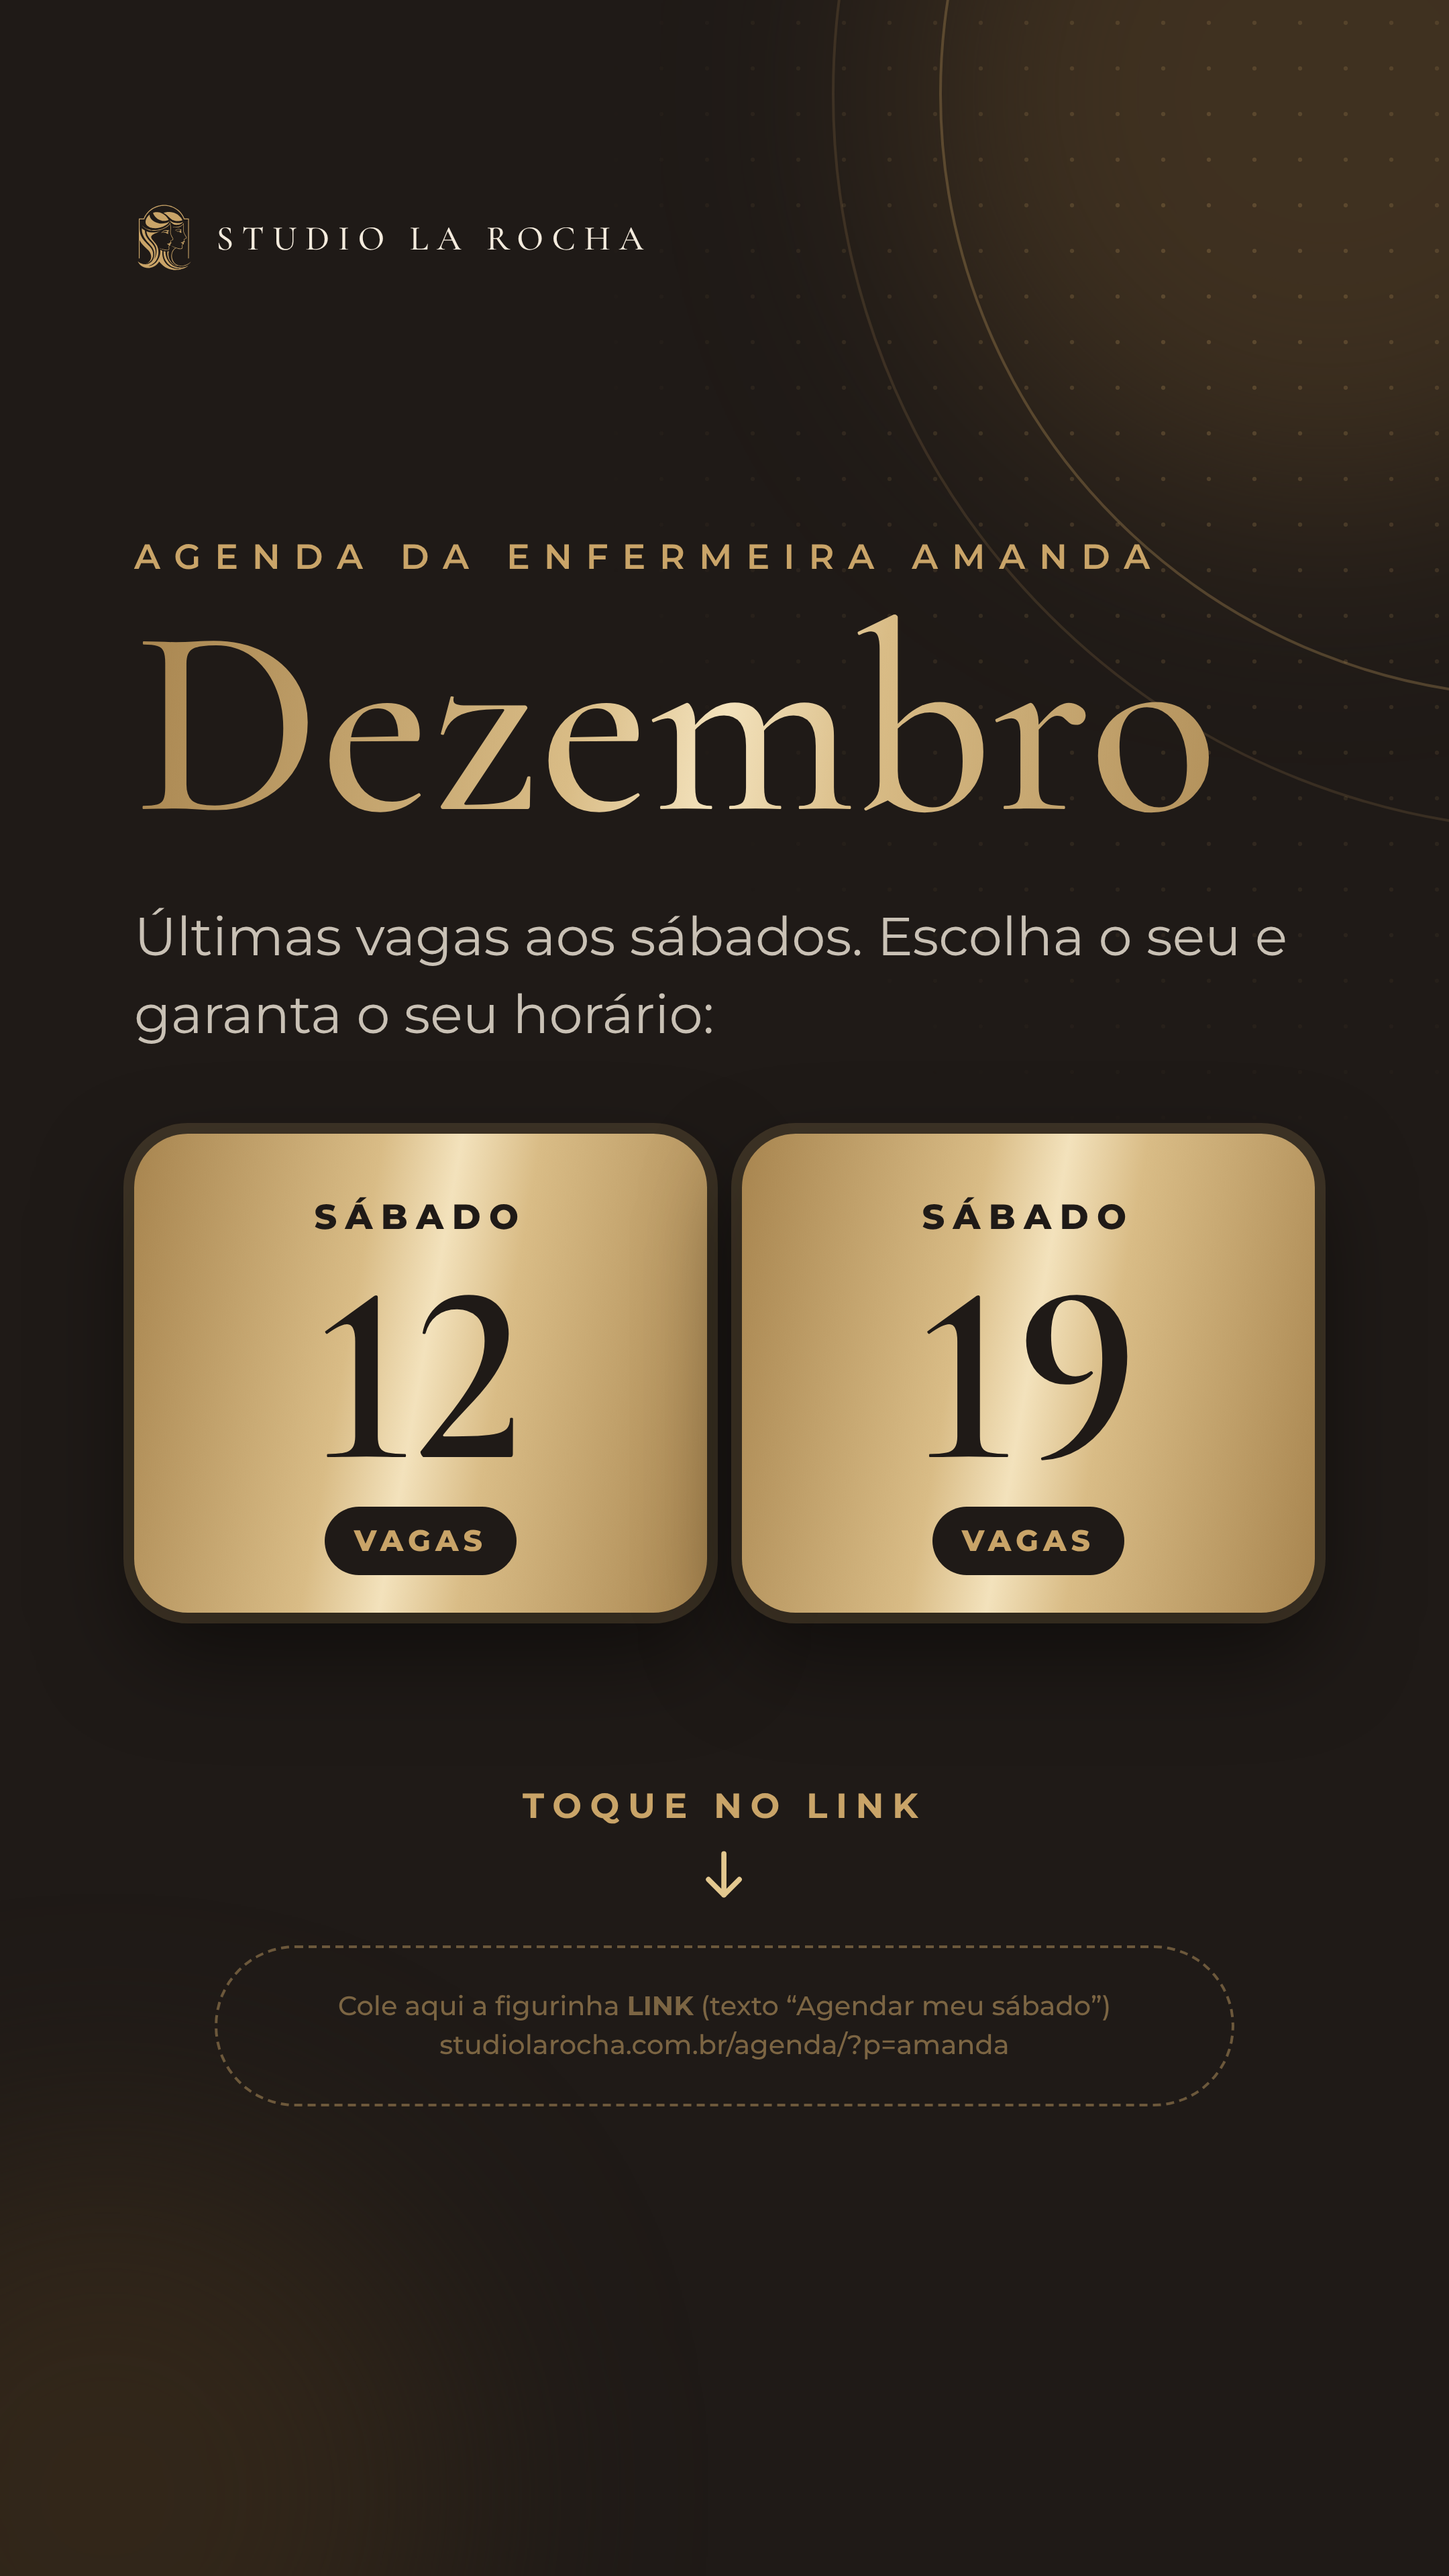
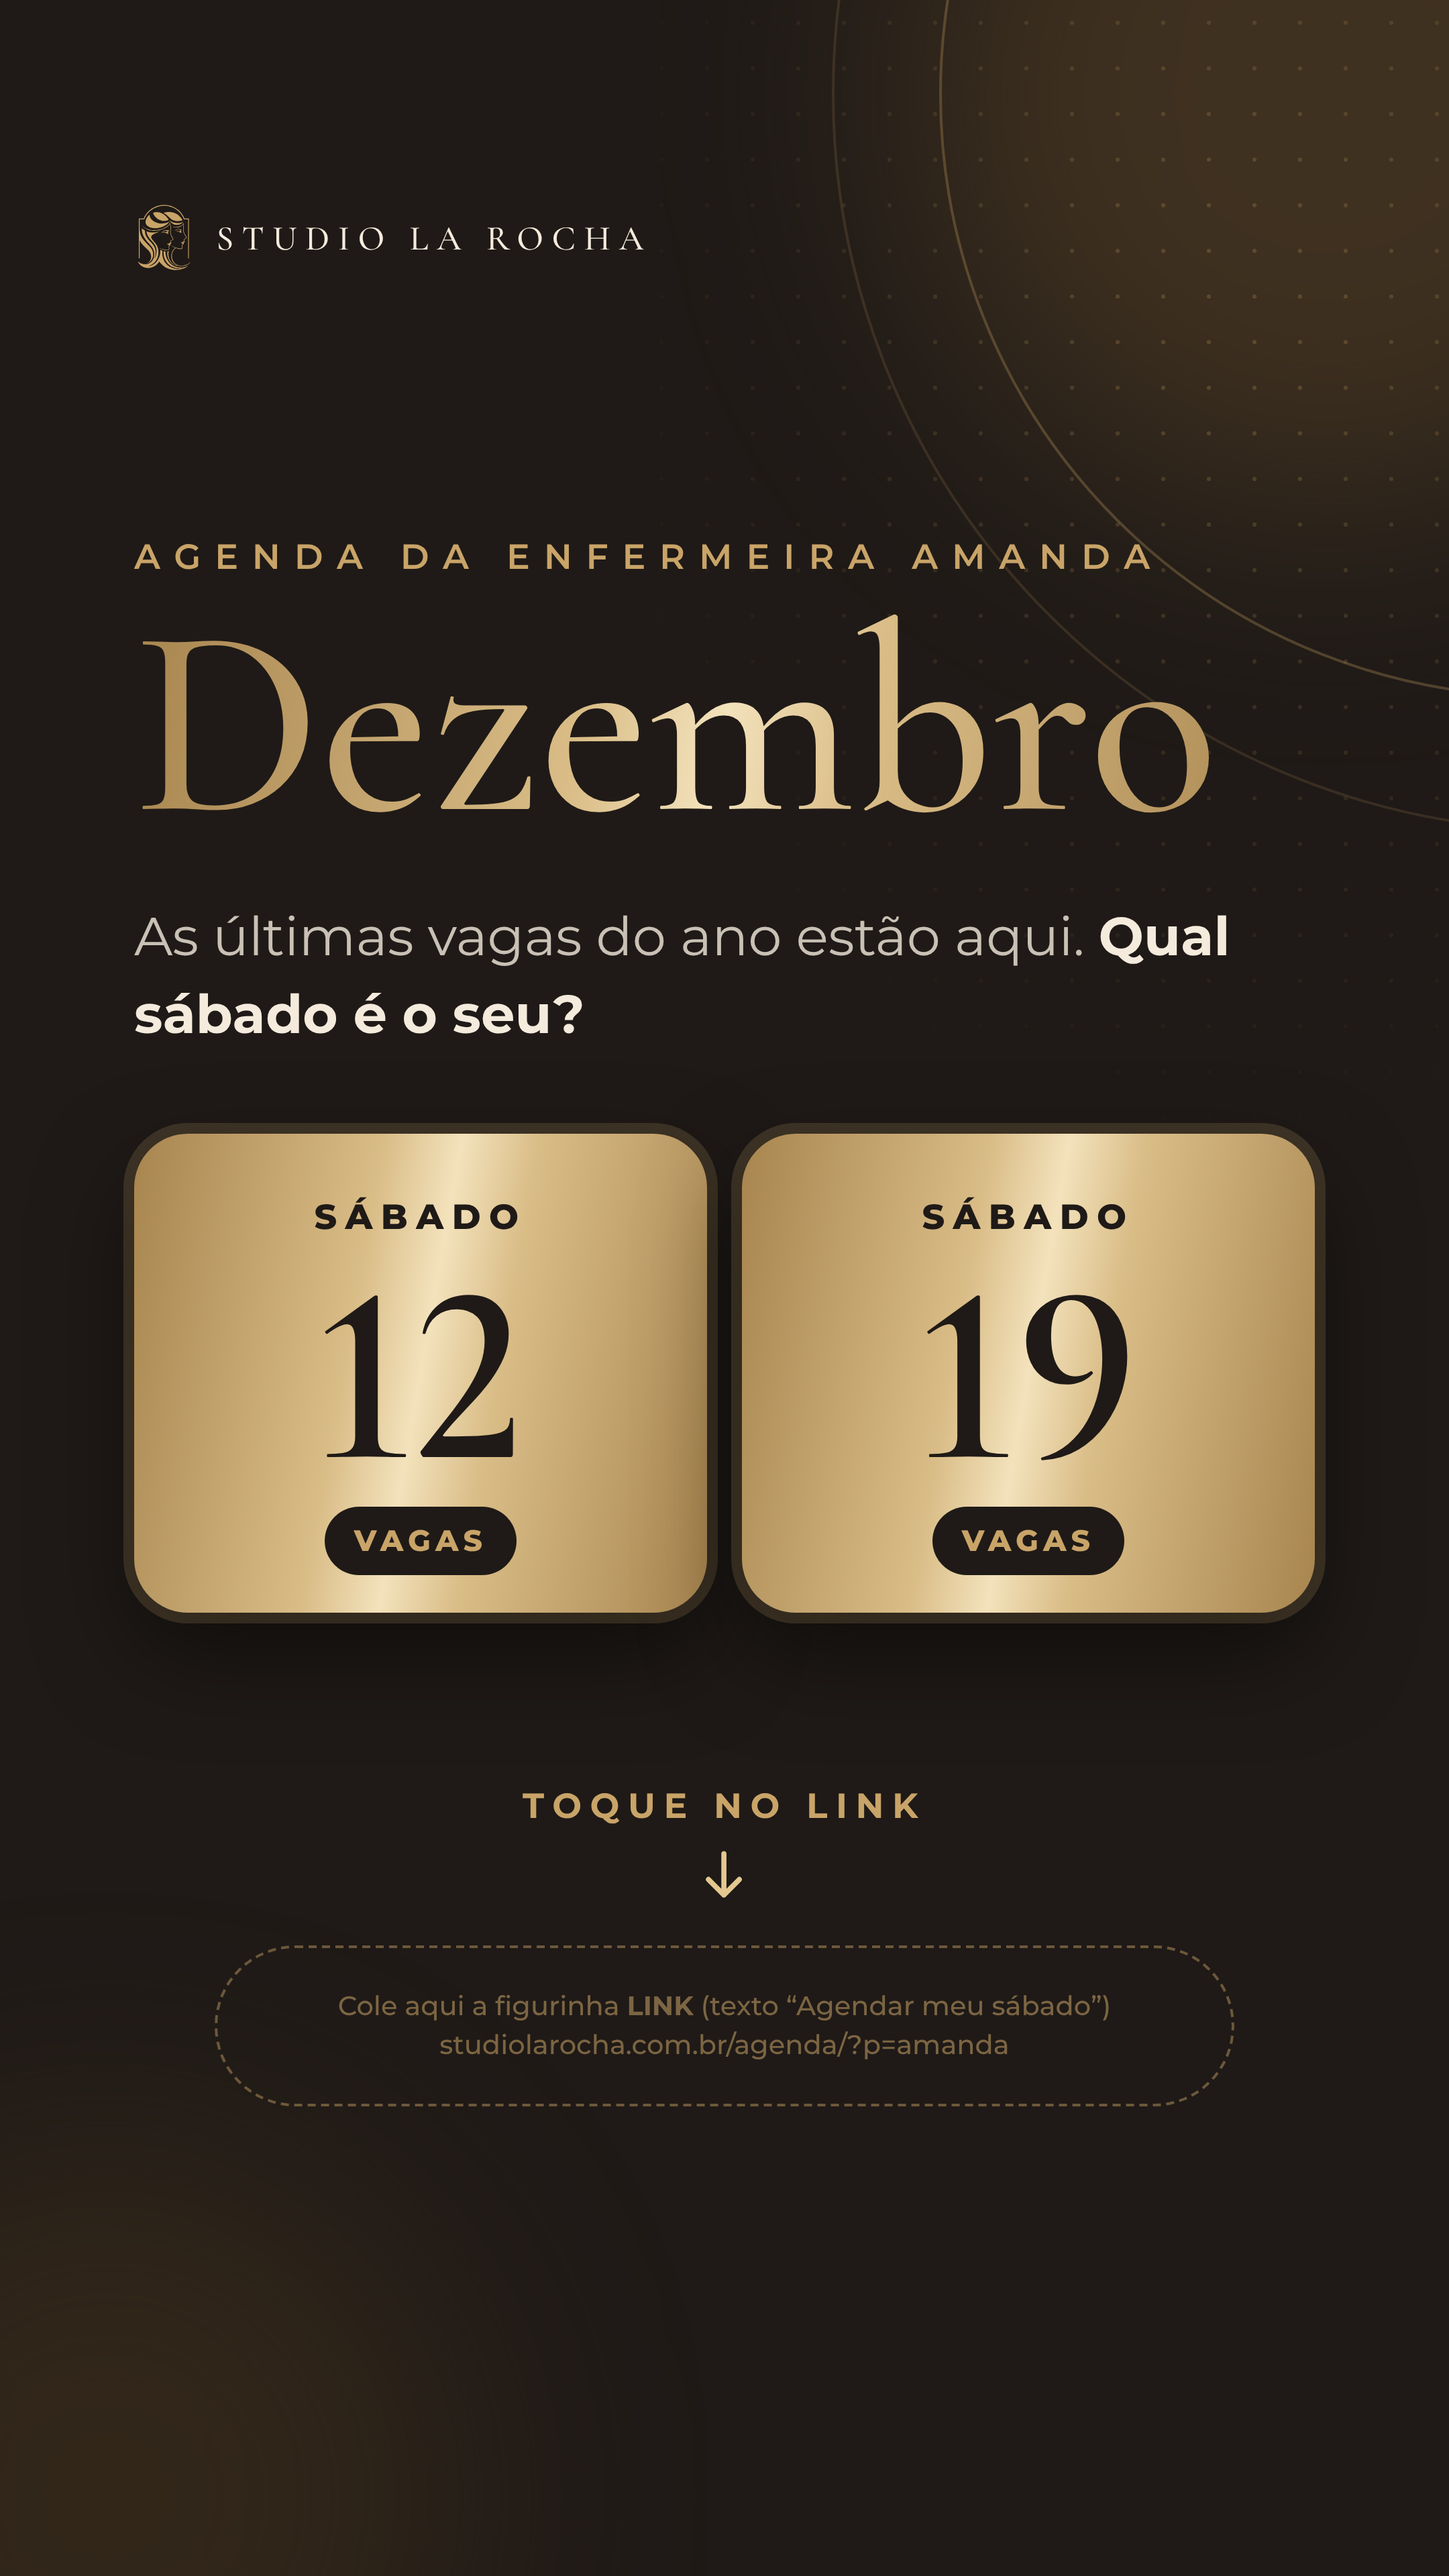
Story 1: texto sem redundância ('Qual sábado é o seu?') e regra de qualidade de texto no CLAUDE.md
Claude-Session: https://claude.ai/code/session_01XzVqx6kG6obyTxXfpJ6DA2

Changed region(s): [[0.0931, 0.3438, 0.8685, 0.4062]]

diff --git a/instagram/fonte/stories-carrossel.html b/instagram/fonte/stories-carrossel.html
@@ -227,7 +227,7 @@
 <section class="post chamada st escuro centro" id="s1-3"><i class="luz a"></i><i class="luz b"></i><div class="pontos"></div><div class="arco um"></div><div class="arco dois"></div><div class="topo"><div class="mini"><img src="simbolo-claro-transp.svg" alt="">STUDIO LA ROCHA</div></div>
 <div class="rotulo">Agenda da enfermeira Amanda</div>
 <div class="mes">Dezembro</div>
-<p class="lead">Últimas vagas aos sábados. Escolha o seu e garanta o seu horário:</p>
+<p class="lead">As últimas vagas do ano estão aqui. <b>Qual sábado é o seu?</b></p>
 <div class="sabs"><div class="sab"><small>Sábado</small><strong>12</strong><span>Vagas</span></div><div class="sab"><small>Sábado</small><strong>19</strong><span>Vagas</span></div></div>
 <div class="seta-baixo">Toque no link<svg viewBox="0 0 24 24" fill="none" stroke="#E3C88F" stroke-width="2" stroke-linecap="round" stroke-linejoin="round"><path d="M12 4v16M6 14l6 6 6-6"/></svg></div><div class="alvo-link"><span class="dica-fig" style="font-size:20px;line-height:1.45">Cole aqui a figurinha <em>LINK</em> (texto “Agendar meu sábado”)<br>studiolarocha.com.br/agenda/?p=amanda</span></div></section>
 <section class="post chamada st claro" id="s2-1"><i class="luz a"></i><i class="luz b"></i><div class="pontos"></div><div class="arco um"></div><div class="arco dois"></div><div class="topo"><div class="mini"><img src="simbolo-colorido.svg" alt="">STUDIO LA ROCHA</div></div>

diff --git a/CLAUDE.md b/CLAUDE.md
@@ -29,6 +29,15 @@ Este arquivo é a memória do projeto. Quem continuar o trabalho (Claude ou pess
 
 - **Textos a evitar:** nada que soe como emagrecer/corpo ("chegar mais leve", "secar", "perder peso"); o Kevin vetou "chegue nas festas mais leve". Preferir cuidado, momento seu, se cuidar.
 
+## 3b. Qualidade do texto (regra do Kevin, 10/11/2026)
+Todo texto (post, story, legenda, folheto, site) passa por esta revisão antes de entregar:
+1. **Faz sentido e é pertinente:** cada frase diz uma coisa só e combina com a imagem e com quem lê (mulheres de Mauá, linguagem do dia a dia).
+2. **Sem redundância:** nada de repetir a mesma ideia com outras palavras (ex.: vetado "Escolha o seu e garanta o seu horário"). Cortar palavras que não acrescentam.
+3. **Cativante:** gancho no começo (pergunta, identificação, curiosidade), tom caloroso, verbos de ação.
+4. **Um chamado claro por peça:** uma ação só (votar, arrastar, tocar no link, salvar, agendar).
+5. **Ler em voz alta:** se soar estranho, travado ou "de robô", reescrever.
+6. Respeitar as regras de saúde, de "Textos a evitar" e de não inventar dados.
+
 ## 4. Padrão visual (identidade)
 - Cores: creme `#F7F1E8`, papel `#FFFCF7`, ouro `#B08D57` (claro `#D9BC86`, escuro `#8E6E3E`), bronze `#9C7A45`, tinta `#2B2622`, escuro `#1F1A17`, marfim `#F4EBDD`. Brilho dourado: `linear-gradient(100deg,#8E6E3E,#C9A468,#F1DEB4,#C9A468,#8E6E3E)`.
 - Fontes (locais em `fonts/`): **Cormorant** (títulos, caixa alta com letter-spacing), **Great Vibes** (assinatura), **Montserrat** (texto).
